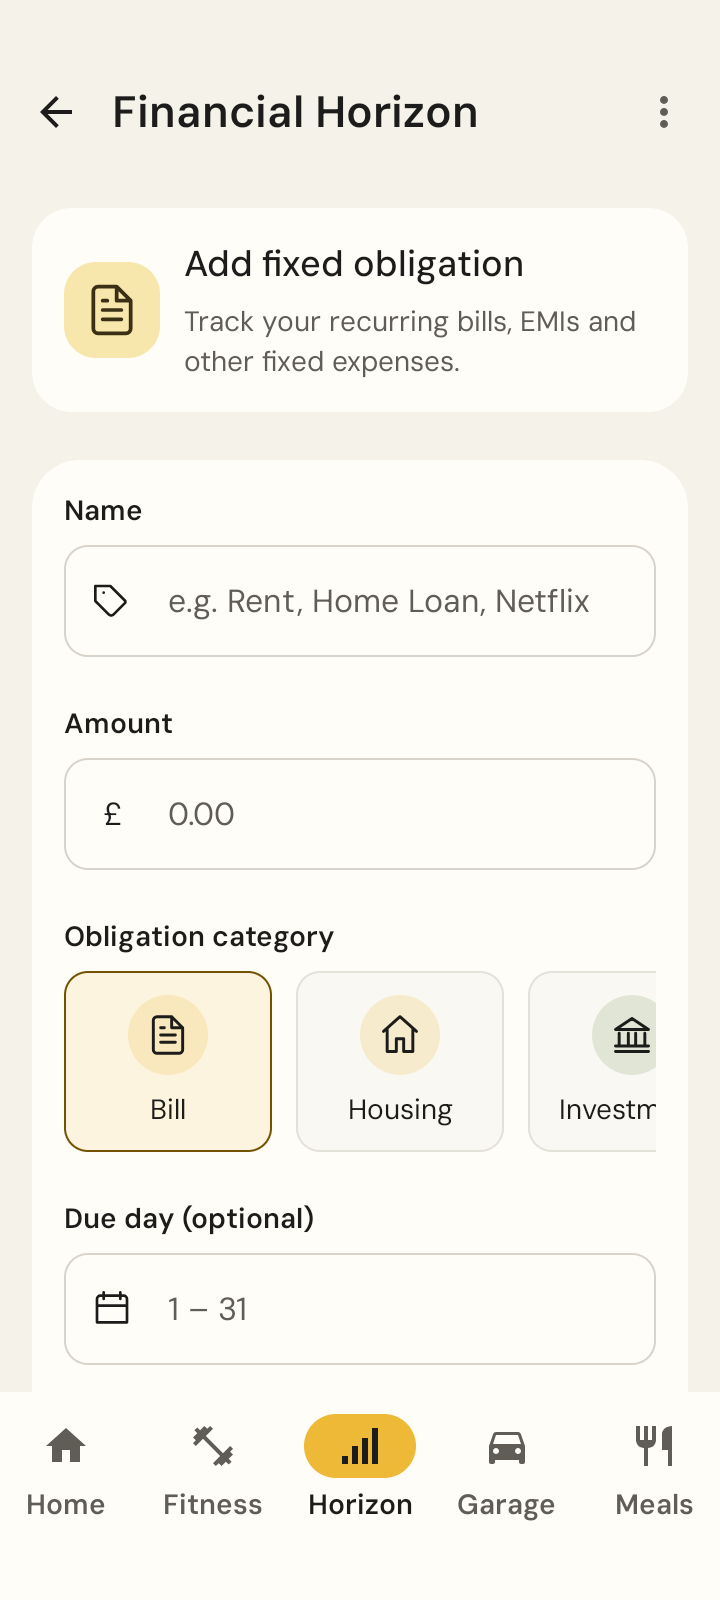
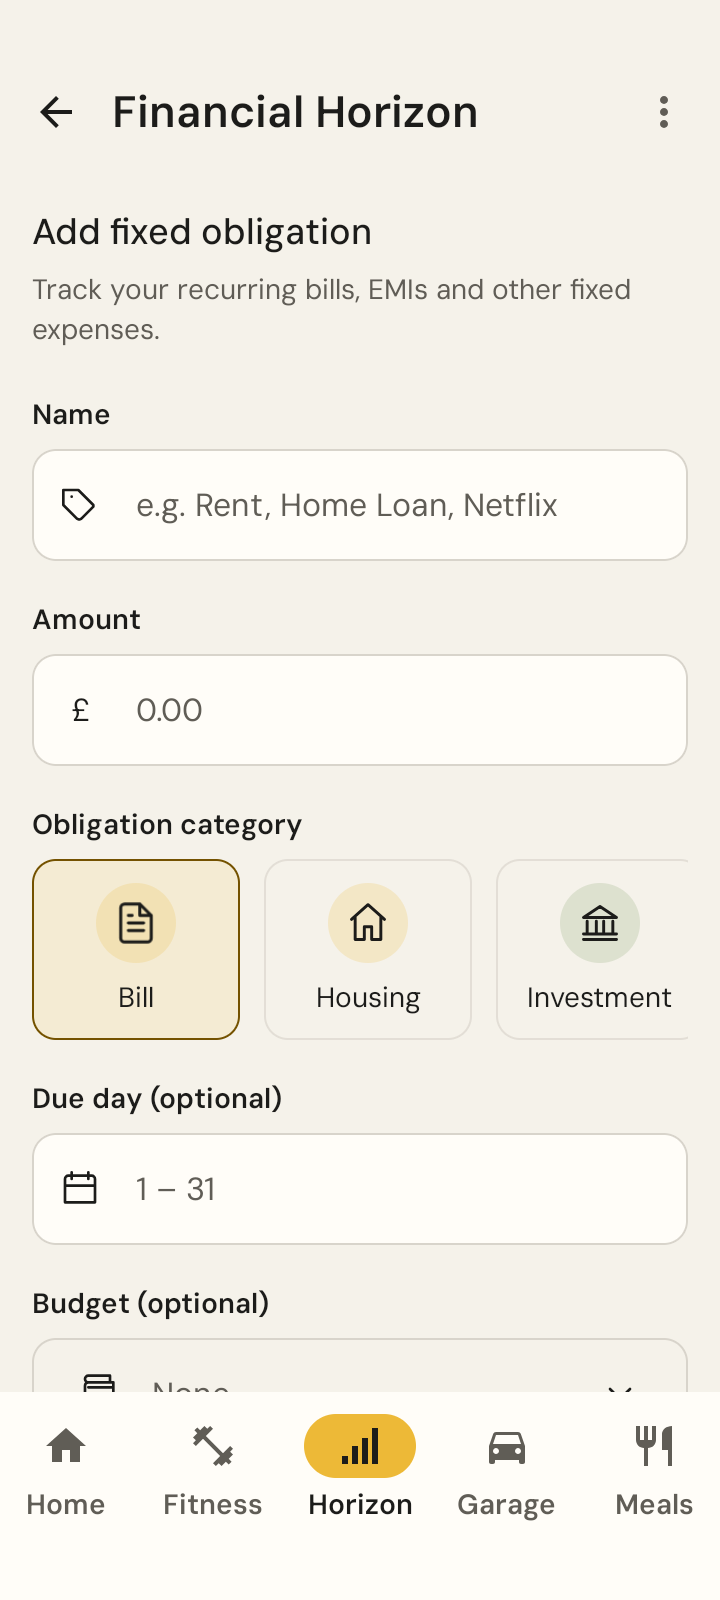
feat: enhance Fixed Obligation Editor with delete functionality and UI updates

diff --git a/pulse-android/feature/horizon/src/main/kotlin/dev/abhishekan/pulse/feature/horizon/FixedObligationEditor.kt b/pulse-android/feature/horizon/src/main/kotlin/dev/abhishekan/pulse/feature/horizon/FixedObligationEditor.kt
@@ -1,5 +1,8 @@
 package dev.abhishekan.pulse.feature.horizon
 
+import androidx.compose.animation.animateColorAsState
+import androidx.compose.animation.core.animateFloatAsState
+import androidx.compose.animation.core.tween
 import androidx.compose.foundation.BorderStroke
 import androidx.compose.foundation.background
 import androidx.compose.foundation.horizontalScroll
@@ -33,6 +36,7 @@ import androidx.compose.material3.Surface
 import androidx.compose.material3.Switch
 import androidx.compose.material3.SwitchDefaults
 import androidx.compose.runtime.Composable
+import androidx.compose.runtime.LaunchedEffect
 import androidx.compose.runtime.getValue
 import androidx.compose.runtime.mutableStateOf
 import androidx.compose.runtime.remember
@@ -40,6 +44,7 @@ import androidx.compose.runtime.setValue
 import androidx.compose.ui.Alignment
 import androidx.compose.ui.Modifier
 import androidx.compose.ui.graphics.Color
+import androidx.compose.ui.graphics.graphicsLayer
 import androidx.compose.ui.platform.LocalDensity
 import androidx.compose.ui.platform.LocalFocusManager
 import androidx.compose.ui.platform.LocalSoftwareKeyboardController
@@ -60,6 +65,7 @@ import dev.abhishekan.pulse.core.ui.PulseTheme
 import dev.abhishekan.pulse.core.ui.UiText
 import dev.abhishekan.pulse.core.ui.components.PulseButton
 import dev.abhishekan.pulse.core.ui.components.PulseButtonVariant
+import dev.abhishekan.pulse.core.ui.components.PulseIconButton
 import dev.abhishekan.pulse.core.ui.components.PulseText
 import dev.abhishekan.pulse.core.ui.components.PulseTextStyle
 
@@ -73,27 +79,29 @@ internal fun FixedObligationEditor(
     onChange: (HorizonDraft) -> Unit,
     onSave: () -> Unit,
     onCancel: () -> Unit,
+    onDelete: (() -> Unit)? = null,
 ) {
     val colors = PulseTheme.colors
     val keyboard = LocalSoftwareKeyboardController.current
-    val saveLabel = stringResource(R.string.pulse_horizon_save_deduction)
+    val editing = draft.id != null
+    val saveLabel = stringResource(if (editing) R.string.pulse_horizon_obligation_save_changes else R.string.pulse_horizon_save_deduction)
+    var menuExpanded by remember(draft.id) { mutableStateOf(false) }
     val cancelLabel = stringResource(R.string.pulse_horizon_cancel_editing)
     BoxWithConstraints(Modifier.widthIn(max = 1000.dp).fillMaxWidth().testTag("fixed-obligation-editor")) {
         val wide = maxWidth >= 600.dp * LocalDensity.current.fontScale.coerceAtLeast(1f)
         val categoryWidth = 104.dp * LocalDensity.current.fontScale.coerceAtLeast(1f)
         val categories = listOf("bill", "housing", "investment", "subscription", "debt", "other")
-        Column(verticalArrangement = Arrangement.spacedBy(24.dp)) {
+        val categoryScroll = rememberScrollState()
+        val categoryStride = with(LocalDensity.current) { (categoryWidth + 12.dp).roundToPx() }
+        LaunchedEffect(draft.id, wide) {
+            if (!wide) categoryScroll.scrollTo(categories.indexOf(draft.category).coerceAtLeast(0) * categoryStride)
+        }
+        Column(verticalArrangement = Arrangement.spacedBy(20.dp)) {
             Row(
-                Modifier.fillMaxWidth().background(colors.surface, RoundedCornerShape(20.dp)).padding(16.dp),
+                Modifier.fillMaxWidth(),
                 horizontalArrangement = Arrangement.spacedBy(12.dp),
                 verticalAlignment = Alignment.CenterVertically,
             ) {
-                Box(
-                    Modifier.size(if (wide) 64.dp else 48.dp).background(colors.primarySoft, RoundedCornerShape(16.dp)),
-                    contentAlignment = Alignment.Center,
-                ) {
-                    Icon(painterResource(R.drawable.pulse_obligation_document), null, Modifier.size(28.dp), tint = colors.onPrimarySoft)
-                }
                 Column(Modifier.weight(1f), verticalArrangement = Arrangement.spacedBy(8.dp)) {
                     PulseText(
                         stringResource(
@@ -115,9 +123,28 @@ internal fun FixedObligationEditor(
                         color = colors.textSecondary,
                     )
                 }
+                if (editing && onDelete != null) {
+                    Box {
+                        PulseIconButton(
+                            stringResource(R.string.pulse_horizon_obligation_more_actions),
+                            { menuExpanded = true },
+                            enabled = !busy && !blocked,
+                        ) { Icon(painterResource(R.drawable.pulse_horizon_more), null) }
+                        DropdownMenu(menuExpanded && !busy && !blocked, { menuExpanded = false }, containerColor = colors.surface) {
+                            DropdownMenuItem(
+                                text = { PulseText(stringResource(R.string.pulse_horizon_obligation_delete), color = colors.error) },
+                                onClick = {
+                                    menuExpanded = false
+                                    keyboard?.hide()
+                                    onDelete()
+                                },
+                            )
+                        }
+                    }
+                }
             }
-            Surface(shape = RoundedCornerShape(24.dp), color = colors.surface) {
-                Column(Modifier.padding(if (wide) 28.dp else 16.dp), verticalArrangement = Arrangement.spacedBy(24.dp)) {
+            Surface(color = Color.Transparent) {
+                Column(Modifier.padding(top = 4.dp), verticalArrangement = Arrangement.spacedBy(20.dp)) {
                     ObligationFieldPair(wide, {
                         ObligationInput(
                             stringResource(R.string.pulse_horizon_name),
@@ -162,7 +189,7 @@ internal fun FixedObligationEditor(
                             }
                         } else {
                             Row(
-                                Modifier.fillMaxWidth().horizontalScroll(rememberScrollState()).selectableGroup(),
+                                Modifier.fillMaxWidth().horizontalScroll(categoryScroll).selectableGroup(),
                                 horizontalArrangement = Arrangement.spacedBy(12.dp),
                             ) {
                                 categories.forEach { category ->
@@ -200,13 +227,12 @@ internal fun FixedObligationEditor(
                     Row(
                         Modifier
                             .fillMaxWidth()
-                            .background(colors.primary.copy(alpha = 0.08f), RoundedCornerShape(16.dp))
                             .toggleable(
                                 draft.active,
                                 enabled = !busy,
                                 role = Role.Switch,
                                 onValueChange = { onChange(draft.copy(active = it)) },
-                            ).padding(16.dp),
+                            ).padding(vertical = 8.dp),
                         verticalAlignment = Alignment.CenterVertically,
                         horizontalArrangement = Arrangement.spacedBy(16.dp),
                     ) {
@@ -242,7 +268,7 @@ internal fun FixedObligationEditor(
                             variant = PulseButtonVariant.Secondary,
                         )
                         PulseButton(
-                            if (wide) saveLabel else stringResource(R.string.pulse_horizon_obligation_save),
+                            if (editing || wide) saveLabel else stringResource(R.string.pulse_horizon_obligation_save),
                             {
                                 keyboard?.hide()
                                 onSave()
@@ -265,12 +291,12 @@ private fun ObligationFieldPair(
     second: @Composable () -> Unit,
 ) {
     if (wide) {
-        Row(horizontalArrangement = Arrangement.spacedBy(24.dp)) {
+        Row(horizontalArrangement = Arrangement.spacedBy(20.dp)) {
             Box(Modifier.weight(1f)) { first() }
             Box(Modifier.weight(1f)) { second() }
         }
     } else {
-        Column(verticalArrangement = Arrangement.spacedBy(24.dp)) {
+        Column(verticalArrangement = Arrangement.spacedBy(20.dp)) {
             first()
             second()
         }
@@ -351,6 +377,17 @@ private fun ObligationCategory(
             "debt" -> R.drawable.pulse_obligation_card
             else -> R.drawable.pulse_horizon_more
         }
+    val tileColor by animateColorAsState(
+        if (selected) colors.primary.copy(alpha = 0.13f) else colors.background.copy(alpha = 0.45f),
+        tween(160),
+        label = "obligation-tile-color",
+    )
+    val borderColor by animateColorAsState(
+        if (selected) colors.action else colors.border.copy(alpha = 0.65f),
+        tween(160),
+        label = "obligation-tile-border",
+    )
+    val iconScale by animateFloatAsState(if (selected) 1.04f else 1f, tween(160), label = "obligation-icon-scale")
     Surface(
         modifier
             .selectable(
@@ -360,12 +397,20 @@ private fun ObligationCategory(
                 onClick = onSelect,
             ).testTag("obligation-category-$category"),
         shape = RoundedCornerShape(12.dp),
-        color = if (selected) colors.primary.copy(alpha = 0.13f) else colors.background.copy(alpha = 0.45f),
-        border = BorderStroke(1.dp, if (selected) colors.action else colors.border.copy(alpha = 0.65f)),
+        color = tileColor,
+        border = BorderStroke(1.dp, borderColor),
     ) {
         val badge: @Composable () -> Unit = {
             Box(Modifier.size(40.dp).background(accent.copy(alpha = 0.2f), CircleShape), contentAlignment = Alignment.Center) {
-                Icon(painterResource(icon), null, Modifier.size(22.dp), tint = colors.textPrimary)
+                Icon(
+                    painterResource(icon),
+                    null,
+                    Modifier.size(22.dp).graphicsLayer {
+                        scaleX = iconScale
+                        scaleY = iconScale
+                    },
+                    tint = colors.textPrimary,
+                )
             }
         }
         if (wide) {

diff --git a/pulse-android/app/src/androidTest/java/dev/abhishekan/pulse/HorizonDeviceTest.kt b/pulse-android/app/src/androidTest/java/dev/abhishekan/pulse/HorizonDeviceTest.kt
@@ -6,6 +6,10 @@ import androidx.compose.ui.test.assertHasClickAction
 import androidx.compose.ui.test.assertIsDisplayed
 import androidx.compose.ui.test.assertIsFocused
 import androidx.compose.ui.test.assertIsNotEnabled
+import androidx.compose.ui.test.assertIsOff
+import androidx.compose.ui.test.assertIsSelected
+import androidx.compose.ui.test.assertTextContains
+import androidx.compose.ui.test.assertTextEquals
 import androidx.compose.ui.test.captureToImage
 import androidx.compose.ui.test.hasAnyAncestor
 import androidx.compose.ui.test.hasClickAction
@@ -734,8 +738,22 @@ class HorizonDeviceTest {
         assertEquals(false, obligation["is_active"]?.jsonPrimitive?.boolean)
         assertEquals(31, obligation["due_day"]?.jsonPrimitive?.int)
         cardAction("Internet", "Edit")
+        awaitText("Edit fixed obligation")
+        compose.onNode(hasContentDescription("Name") and hasSetTextAction()).assertTextEquals("Internet")
+        compose.onNode(hasContentDescription("Amount (${UserCurrency.symbol()})") and hasSetTextAction()).assertTextContains("50.25")
+        compose.onNode(hasContentDescription("Due day (1–31, optional)") and hasSetTextAction()).assertTextEquals("31")
+        compose.onNode(hasTestTag("obligation-category-investment")).assertIsSelected()
+        compose.onNode(hasTestTag("obligation-budget")).assertTextContains("Travel fund")
+        compose.onNodeWithText("Active obligation").assertIsOff()
+        screenshot("obligation-edit")
+        compose.onNodeWithContentDescription("Obligation actions").performScrollTo().performClick()
+        tap("Delete obligation")
+        awaitText("Confirm deletion")
+        compose.onNode(hasText("Cancel") and hasAnyAncestor(isDialog())).performClick()
+        awaitText("Edit fixed obligation")
+        assertEquals(2, backend.items("deductions").size)
         tap("Active obligation")
-        tap("Save fixed obligation")
+        tap("Save changes")
         awaitText("Internet")
         tap("Budgets")
         cardAction("Travel fund", "Delete")
@@ -744,10 +762,14 @@ class HorizonDeviceTest {
         awaitText("Everyday")
         assertEquals(JsonNull, backend.items("deductions").values.last()["budget_id"])
         tap("Obligations")
-        cardAction("Internet", "Delete")
+        cardAction("Internet", "Edit")
+        field("Name", "Unsaved name")
+        compose.onNodeWithContentDescription("Obligation actions").performScrollTo().performClick()
+        tap("Delete obligation")
         confirm("Delete")
         awaitText("Rent")
         assertEquals(1, backend.items("deductions").size)
+        compose.onNode(hasTestTag("fixed-obligation-editor")).assertDoesNotExist()
     }
 
     @Test fun transactionLedgerAdaptsBetweenPhoneAndTablet() {

diff --git a/pulse-android/feature/horizon/src/main/kotlin/dev/abhishekan/pulse/feature/horizon/HorizonScreen.kt b/pulse-android/feature/horizon/src/main/kotlin/dev/abhishekan/pulse/feature/horizon/HorizonScreen.kt
@@ -196,6 +196,19 @@ internal fun HorizonScreen(
                             vm::update,
                             vm::save,
                             cancel,
+                            onDelete =
+                                state.draft.id?.takeIf { state.draft.kind == HorizonForm.Deduction }?.let { id ->
+                                    {
+                                        deletion = HorizonChange.Delete(HorizonRecord.Deduction, id) to
+                                            uiText(
+                                                R.string.pulse_horizon_delete_1_s_this_removes_the_fixed_obligation_and,
+                                                state.overview.value
+                                                    ?.deductions
+                                                    ?.find { it.id == id }
+                                                    ?.name ?: state.draft.name,
+                                            )
+                                    }
+                                },
                         )
                     } else {
                         if (state.draft != null &&
@@ -638,7 +651,12 @@ internal fun HorizonScreen(
             {
                 deletion =
                     null
-                vm.mutate(change)
+                val deletingDraft =
+                    change is HorizonChange.Delete &&
+                        change.kind == HorizonRecord.Deduction &&
+                        state.draft?.kind == HorizonForm.Deduction &&
+                        state.draft.id == change.id
+                vm.mutate(change, closeDraft = deletingDraft)
             },
             { deletion = null },
         )

diff --git a/pulse-android/feature/horizon/src/main/kotlin/dev/abhishekan/pulse/feature/horizon/HorizonEditor.kt b/pulse-android/feature/horizon/src/main/kotlin/dev/abhishekan/pulse/feature/horizon/HorizonEditor.kt
@@ -41,9 +41,10 @@ internal fun HorizonEditor(
     onChange: (HorizonDraft) -> Unit,
     onSave: () -> Unit,
     onCancel: () -> Unit,
+    onDelete: (() -> Unit)? = null,
 ) {
     if (draft.kind == HorizonForm.Deduction) {
-        FixedObligationEditor(draft, data, busy, error, blocked, onChange, onSave, onCancel)
+        FixedObligationEditor(draft, data, busy, error, blocked, onChange, onSave, onCancel, onDelete)
         return
     }
     var datePicker by remember { mutableStateOf(false) }
